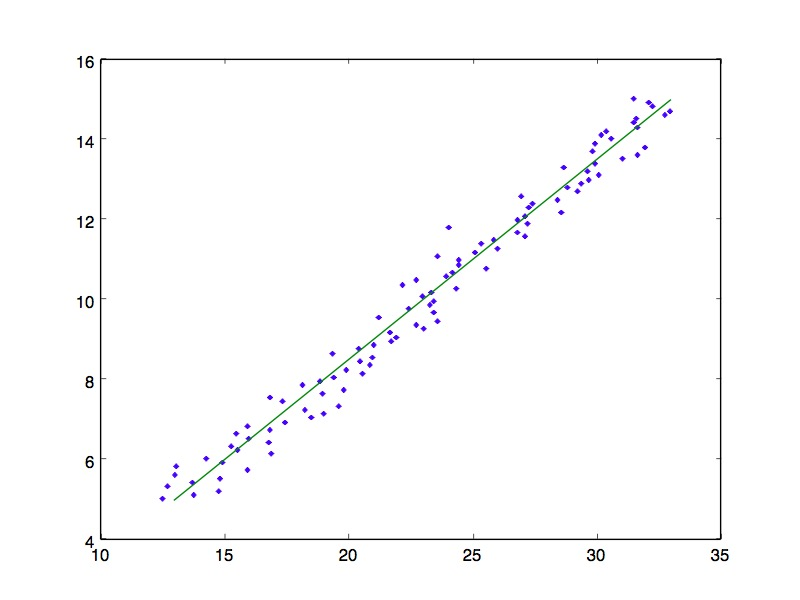
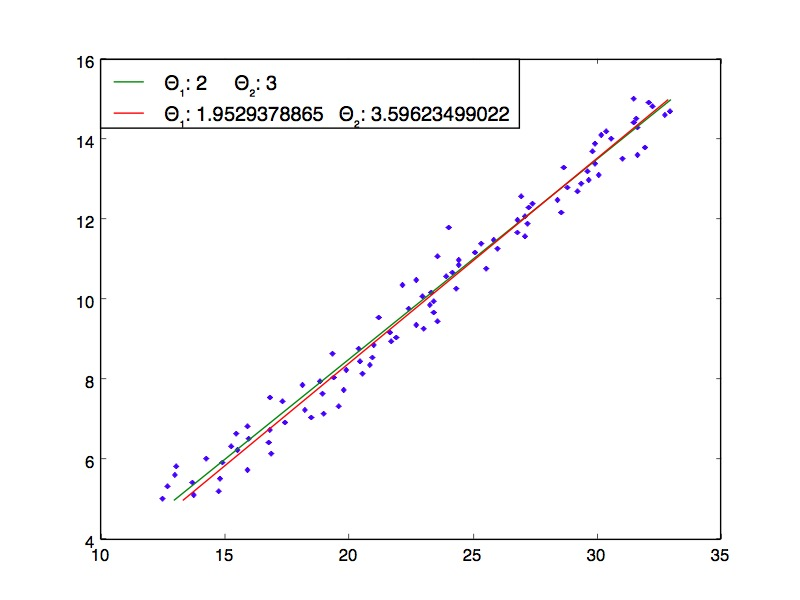
Add calculation of teta

diff --git a/ex1.py b/ex1.py
@@ -5,41 +5,55 @@ import numpy as np
 import matplotlib.pyplot as mpl
 
 
+def calc_errors(coef):
+    y = coef.item(0)*temps+coef.item(1)
+    mpl.plot(y, temps, label= u'\u0398\u2081: '+ str(coef.item(0)) + u'\t\u0398\u2082: ' + str(coef.item(1)))
+    
+    Jabs = sum(abs(position-y))/N
+    print("Jabs: \t\t" + str(Jabs))
+
+    # Jl1_test = (sum((position-y)**2)**(0.5))/N
+    # print("Jl1_test: \t" + str(Jl1_test))
+
+    # Jl2_test = sum((position-y)**2)/N
+    # print("Jl2_test: \t" + str(Jl2_test))
+
+    part_1 = (position_matrix - np.dot(temps_matrix_transpose, coef)).transpose()
+    part_2 =  position_matrix - np.dot(temps_matrix_transpose, coef)
+
+    JL1 = np.dot(part_1,part_2).item(0)**0.5/N
+    print("JL1: \t\t" + str(JL1))
+
+    Jl2 = np.dot(part_1,part_2).item(0)/N
+    print("JL2: \t\t" + str(Jl2))
+
+    Jlinf = max(abs(position-y))
+    print("Jlinf: \t\t" + str(Jlinf))
+
+coef = np.matrix('2;3') # O
+
 position = np.loadtxt("p.txt")
 temps = np.loadtxt("t.txt")
 mpl.plot(position, temps, ".")
 
-y = 2*temps+3
-mpl.plot(y, temps)
-
-mpl.savefig("graph.jpeg")
-
 N = position.size
-
-Jabs = sum(abs(position-y))/N
-print("Jabs: \t\t" + str(Jabs))
-
-# Jl1_test = (sum((position-y)**2)**(0.5))/N
-# print("Jl1_test: \t" + str(Jl1_test))
-
-# Jl2_test = sum((position-y)**2)/N
-# print("Jl2_test: \t" + str(Jl2_test))
-
-coef = np.matrix('2;3') # O
 
 position_matrix = np.matrix(position).transpose() # y
 
 one_array = [1]*temps.size
-temps_matrix_transpose = np.matrix(np.vstack((one_array, temps))).transpose() # Xt
+temps_matrix = np.matrix(np.vstack((temps, one_array))) # X
+temps_matrix_transpose = temps_matrix.transpose()
 
-part_1 = (position_matrix - np.dot(temps_matrix_transpose, coef)).transpose()
-part_2 =  position_matrix - np.dot(temps_matrix_transpose, coef)
+calc_errors(coef)
 
-JL1 = np.dot(part_1,part_2).item(0)**0.5/N
-print("JL1: \t\t" + str(JL1))
+teta_part_one = np.dot(temps_matrix, temps_matrix_transpose)**(-1)
+teta_part_two = np.dot(temps_matrix, position_matrix)
 
-Jl2 = np.dot(part_1,part_2).item(0)/N
-print("JL2: \t\t" + str(Jl2))
+teta = np.dot(teta_part_one, teta_part_two)
 
-Jlinf = max(position-y)
-print("Jlinf: \t\t" + str(Jlinf))
+print("Teta: " + str(teta))
+
+calc_errors(teta)
+
+mpl.legend(bbox_to_anchor=(0, 1), loc=2, borderaxespad=0.)
+mpl.savefig("graph.jpeg")
